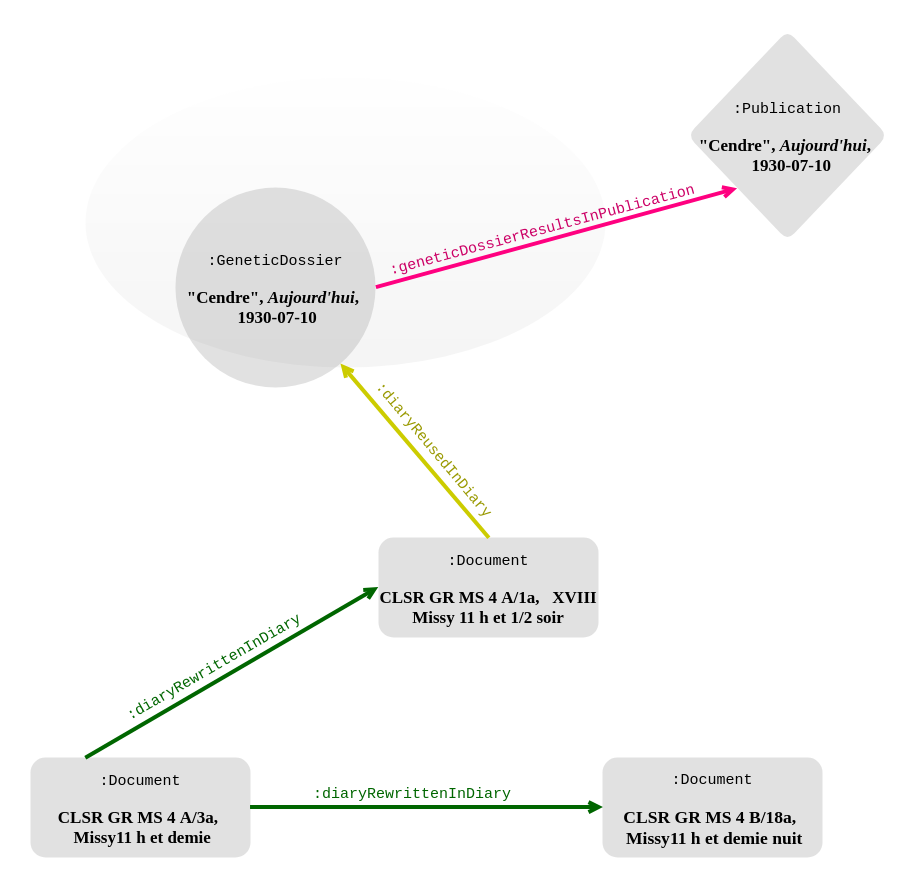
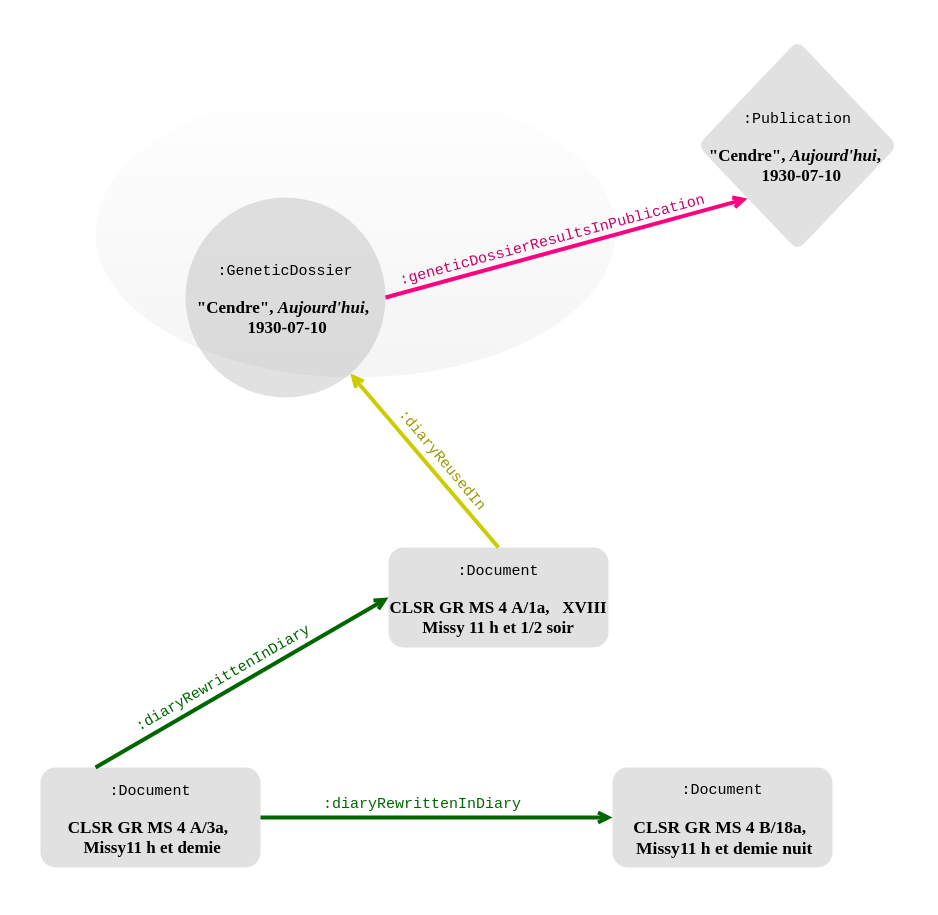
slides lille

diff --git a/talks/20190502_Lille/20190502_Lille.html b/talks/20190502_Lille/20190502_Lille.html
@@ -170,7 +170,7 @@
 							</td>
 							<td>
 								<span class="fragment">
-									<h4>architecture</h4>Knora
+									<h4>architecture</h4>Knora + Sipi + Salsah
 								</span>
 							</td>
 						</tr>
@@ -178,8 +178,14 @@
 				</section>
 
 				<section>
-					<img src="images/knora_website.png">
-					ontologies : knora-base + spécifique pour le projet
+					<table>
+						<tr>
+							<td><div><img width="70%" src="images/poster-dasch-force11.jpg"></div></td>
+							<td><div style="float: right; font-size: 0.4em">Jaouen, Loïc. (2018). <em>Preservation and accessibility of primary research data, presentation of the "Data and Service Center for humanities" (DaSCH) (Version 1.0.0)</em>. Zenodo. <a href="http://doi.org/10.5281/zenodo.1456791">doi.org/10.5281/zenodo.1456791</a><br/><br/><br/><br/><br/><br/><br/><br/></div></td>
+						</tr>
+					</table>
+					
+					
 				</section>
 
 				<section data-background-image="images/graph_onto.png" data-background-size="contain">
@@ -200,7 +206,7 @@
 					<table class="smaller">
 						<thead style="font-weight: bold;color:grey;font-size: 1.2em">
 							<tr>
-								<td>roud-oeuvres onto</td>
+								<td>roud-œuvres onto</td>
 								<td>TEI</td>
 								<td>LOD</td>
 							</tr>
@@ -310,7 +316,7 @@
 				</section> -->
 
 				<section>
-					<h4><span style="color:darkgreen">roud-oeuvres:isRewrittenIn</span></h4>
+					<h4><span style="color:darkgreen">roud-œuvres:diaryRewrittenInDiary</span></h4>
 					<br/>
 					<table>
 						<tr>
@@ -328,8 +334,8 @@
 
 
 				<section>
-					<h4><span style="color:#E5C100">roud-oeuvres:diaryReusedIn</span></h4>
-					<h4><span style="color:#f4137c">roud-oeuvres:GeneticDossierResultsIn</span></h4>
+					<h4><span style="color:#E5C100">roud-œuvres:diaryReusedIn</span></h4>
+					<h4><span style="color:#f4137c">roud-œuvres:GeneticDossierResultsIn</span></h4>
 					<br/>
 					<table>
 						<tr>
@@ -356,7 +362,7 @@
 				</section>
 
 				<section>
-					<h4><span style="color:#2d72bc">roud-oeuvres:isBeforeInAvantTexte</span></h4>
+					<h4><span style="color:#2d72bc">roud-œuvres:isBeforeInAvantTexte</span></h4>
 					<br/>
 					<table>
 						<tr>
@@ -385,41 +391,48 @@
 					<br/><br/>édition (comme) critique</h3>
 				</section>
 
-				<section>
-					<h4>&#128247; Quelle dimension critique pour l'édition ?<br/>Où se trouve le positionnement sciéntifique ?</h4>
+				<section style="text-align: center">
+					<h4>Quelle dimension critique pour l'édition ?<br/>Où se trouve le positionnement scientifique ?<br/>&#128247;</h4>
 					<br/>
-					Organisation des matériaux et modèle de données. <span class="fragment" data-fragment-index="1">Exemples :</span>
-					<br/>
-					<ul>
-						<span class="fragment" data-fragment-index="1">
-							<li>inclusion des traductions</li>
-						</span>
-						<span class="fragment" data-fragment-index="2">
-							<li>dimension textuelle + dimension matérielle</li>
-						</span>
-						<span class="fragment" data-fragment-index="3">
-							<li>inclusion du journal dans les réseaux génétiques</li>
-						</span>
-					</ul>
+					organisation des matériaux<br/>modèle de données
 				</section>
 
-				<section>
+				<section class="small">
+					<div>
+						<p>"formulare un modello di certi fenomeni equivale a formulare un'ipotesi su quei fenomeni"</p>
+						<div class="source">Carlo Cellucci, “I modelli, l'analogia e la metafora”</div>
+						<br/>
+						<p>"un modello di dati [deve essere] in grado di formalizzare i procedimenti analitici e critici applicabili allo studio del testo"</q>
+						<div class="source">Dino Buzzetti, “Rappresentazione digitale e modello del testo”</div>
+					</div>
+					<br/><br/>
+					<div style="padding:30px;border:1px solid gold;"><em><b>Il ruolo del modello nella scienza e nel sapere (Roma, 27-28 ottobre 1998)</b></em>, Sergio Carrà (ed.), Accademia nazionale dei Lincei, Roma 1999.</div>
+				</section>
+
+				<section style="text-align: center">
+					<h4>Quelle dimension critique pour l'édition ?<br/>Où se trouve le positionnement scientifique ?<br/>&#128247;</h4>
+					<br/>
+					<div class="small">
+						<div class="fragment" data-fragment-index="1">
+						inclusion de traductions et propos</div>
+						<div class="fragment" data-fragment-index="2">
+						dimension textuelle + dimension matérielle</div>
+						<div class="fragment" data-fragment-index="3">
+						inclusion du journal dans les réseaux génétiques</div>
+						<div class="fragment" data-fragment-index="4">
+						limites de l'œuvre</div>
+					</div>
+				</section>
+
+				<section data-background-image="images/database.jpg" data-background-opacity="0.4">
+					<h4>Questions ?</h4>
+					<br/><br/><br/><br/><br/><br/><br/><br/>
+
+					<div style="font-size: 0.4em;padding-right: 50%">
+					Spadini, Elena. <em>« Une allée de rosiers et de digitales fleuries » : parcours dans l’édition des œuvres de Gustave Roud</em>. Éditions savantes numériques : enjeux et realisations - Séminaire interdisciplinaire-européen et international de l'école doctorale, Lille, 2 mai 2019.<br/></span><a rel="license" href="http://creativecommons.org/licenses/by-nc-sa/4.0/"><img alt="Creative Commons License" style="border-width:0" src="https://i.creativecommons.org/l/by-nc-sa/4.0/80x15.png" /></a></div>
+
+					<div style="text-align: right" class="smallest"><span class="smallest">Image : Michael Mandiberg, <a href="https://www.flickr.com/photos/theredproject/3332644561/" target="_blank"><em>DATA BASE</em></a>, 2009 (CC BY-SA 2.0)</span></div>
 					
-					<q>formulare un modello di certi fenomeni equivale a formulare un'ipotesi su quei fenomeni</q>
-					<br/>
-					<br/><br/>
-					<q>un modello di dati [deve essere] in grado di formalizzare i procedimenti analitici e critici applicabili allo studio del testo</q>
-					<br/><br/>
-					<div class="source">Carlo Cellucci, “I modelli, l'analogia e la metafora”.<br/>
-						Dino Buzzetti, “Rappresentazione digitale e modello del testo”.
-						<br/><br/><i>Il ruolo del modello nella scienza e nel sapere (Roma, 27-28 ottobre 1998)</i>, Sergio Carrà (ed.), Accademia nazionale dei Lincei, Roma 1999.</div>
-				</section>
-
-
-
-				<section>
-					<span class="small">
-					Elena Spadini, <em>« Une allée de rosiers et de digitales fleuries » : parcours dans l’édition des œuvres de Gustave Roud</em>, "Éditions savantes numériques : enjeux et realisations" Seminaire interdisciplinaire-europeen et international de l'école doctorale, Lille, 2 mai 2019.</span><a rel="license" href="http://creativecommons.org/licenses/by-nc-sa/4.0/"><img alt="Creative Commons License" style="border-width:0" src="https://i.creativecommons.org/l/by-nc-sa/4.0/80x15.png" /></a>
 				</section>
 
 
